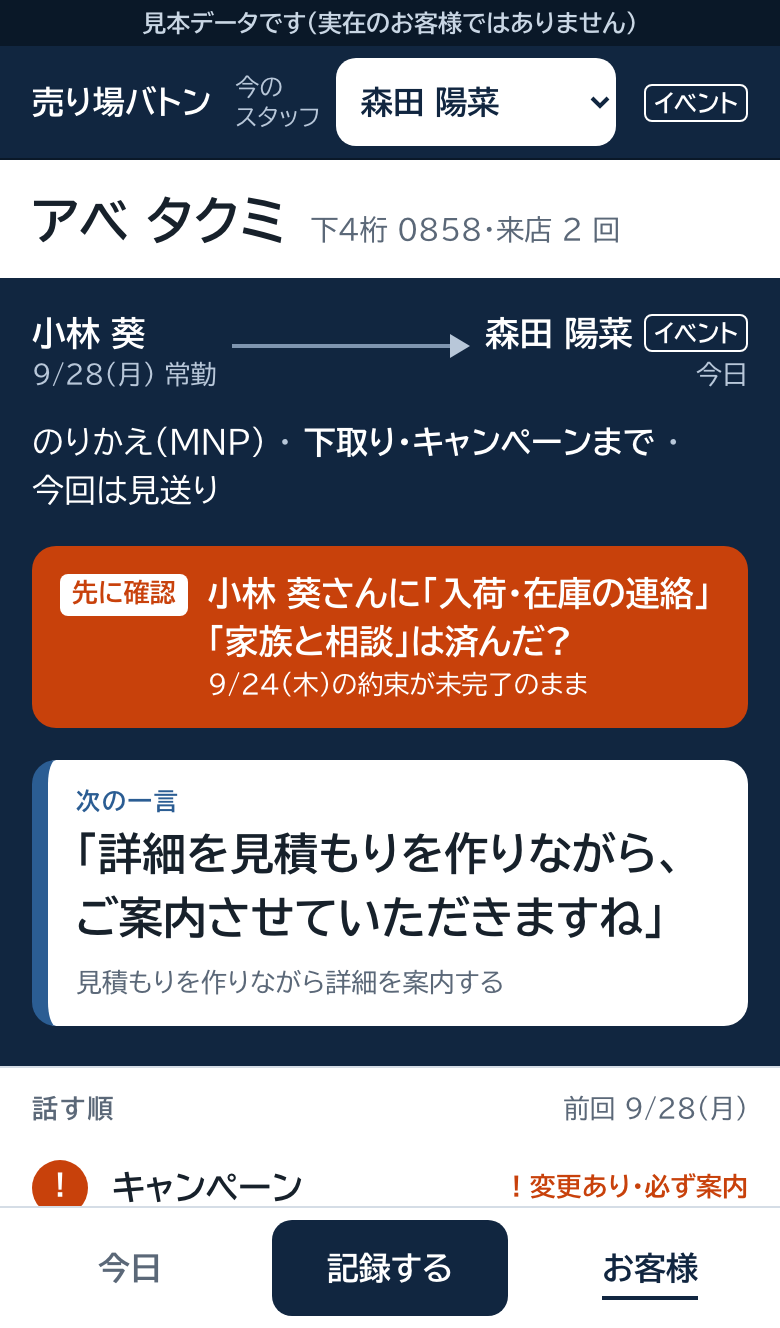
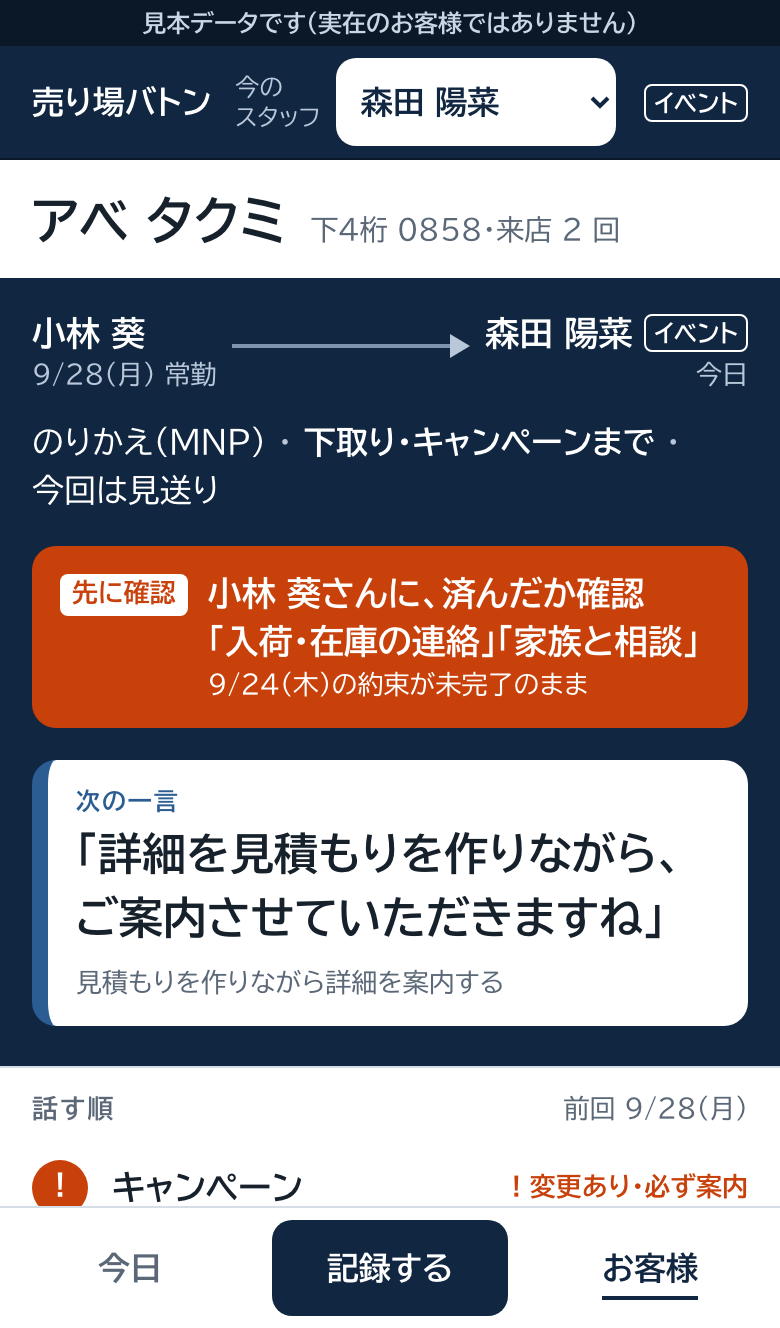
外部AI(Codex)の辛口レビューで当たっていた所を直した:先に確認は相手と約束を分けて折らない、済みボタンを「済みにする」に、選んだ説明済みに✓、残りの段を開くボタン、今日の一覧に先に確認の件数。色覚・白黒の確認画像を追加

Changed region(s): [[0.2769, 0.4322, 0.9231, 0.494]]

diff --git a/src/app/record/RecordForm.tsx b/src/app/record/RecordForm.tsx
@@ -268,11 +268,15 @@ export function RecordForm({
     goNext(1, { 1: true });
   }
 
+  /** 足りない段のうち最初のものを開く */
+  function openMissing() {
+    openStep(!hasCustomer ? 1 : topicIds.length === 0 ? 2 : 4);
+  }
+
   function submit() {
     // 足りない段があれば、保存せずにその段を開く(保存ボタンは無効にしない)
     if (staffName !== null && !ready) {
-      const first: StepNo = !hasCustomer ? 1 : topicIds.length === 0 ? 2 : 4;
-      openStep(first);
+      openMissing();
       return;
     }
     const seconds = secondsSince(startedAt.current);
@@ -475,7 +479,7 @@ export function RecordForm({
                                   : "border-baton-line-strong bg-baton-men text-baton-moji"
                               }`}
                             >
-                              説明済み
+                              {explained ? "✓ " : ""}説明済み
                             </button>
                             <button
                               type="button"
@@ -685,10 +689,18 @@ export function RecordForm({
       <div className="fixed inset-x-0 bottom-0 z-20 border-t border-baton-line bg-baton-men px-4 pt-2 pb-[calc(env(safe-area-inset-bottom)+0.75rem)]">
         <div className="mx-auto max-w-md">
           {!ready ? (
-            <p className="mb-1.5 text-center text-[13px] text-baton-sub">
-              あと:{missing.join("・")}
-              {staffName !== null ? "(押すと開きます)" : ""}
-            </p>
+            staffName !== null ? (
+              // 残りの段を開くボタン(保存ボタンと同じ所にまとめて、まだ終わっていないことを見せる)
+              <button
+                type="button"
+                onClick={openMissing}
+                className="mb-1 flex min-h-11 w-full items-center justify-center text-[15px] font-bold text-baton-ai underline underline-offset-4"
+              >
+                あと:{missing.join("・")} を開く
+              </button>
+            ) : (
+              <p className="mb-1.5 text-center text-[13px] text-baton-sub">あと:{missing.join("・")}</p>
+            )
           ) : null}
           {/* 足りなくても押せる(足りない段を開く)。担当者が未選択のときだけは、開く段が無いので押せない */}
           <button

diff --git a/src/app/customers/[id]/page.tsx b/src/app/customers/[id]/page.tsx
@@ -133,15 +133,25 @@ export default async function CustomerCardPage({ params, searchParams }: Props) 
           <div aria-label="先に確認" role="group" className="mt-4 rounded-xl bg-baton-shu px-3.5 py-3 text-baton-on-shu">
             <ul className="space-y-2.5">
               {view.confirm.map((c) => (
-                <li key={`${c.date}${c.staffName}`} className="flex items-start gap-2.5">
+                <li key={`${c.date}${c.staffName}`} className="flex items-start gap-2.5 max-[359px]:flex-col max-[359px]:gap-1">
                   <span className="mt-0.5 shrink-0 rounded bg-baton-men px-1.5 py-0.5 text-[13px] font-bold leading-tight text-baton-shu">
                     先に確認
                   </span>
+                  {/* 確認する相手と、確認する約束を分けて出す(約束の名前は途中で折らない) */}
                   <div className="min-w-0">
                     <p className="text-[17px] font-bold leading-snug">
-                      {c.staffName}さんに{c.labels.map((l) => `「${l}」`).join("")}は済んだ?
+                      {c.staffName}さんに、<span className="whitespace-nowrap">済んだか確認</span>
                     </p>
-                    <p className="mt-0.5 text-[13px] leading-snug tabular-nums">{c.date}の約束が<span className="whitespace-nowrap">未完了のまま</span></p>
+                    <p className="text-[17px] font-bold leading-snug">
+                      {c.labels.map((l) => (
+                        <span key={l} className="inline-block">
+                          「{l}」
+                        </span>
+                      ))}
+                    </p>
+                    <p className="mt-0.5 text-[13px] leading-snug tabular-nums">
+                      {c.date}の約束が<span className="whitespace-nowrap">未完了のまま</span>
+                    </p>
                   </div>
                 </li>
               ))}

diff --git a/src/lib/card-view.ts b/src/lib/card-view.ts
@@ -82,7 +82,7 @@ export type CardView = {
   /** 説明済み(畳んで出す) */
   explained: ItemStatus[];
   /** 今日の一覧用の数 */
-  counts: { required: number; changed: number; unclear: number; notYet: number };
+  counts: { required: number; confirm: number; changed: number; unclear: number; notYet: number };
   /** 読み上げ用の要約(画面には出さない) */
   summaryText: string;
 };
@@ -125,6 +125,8 @@ export function buildCardView(visits: HandoffVisit[], catalog: ChecklistCatalog)
     explained: items.filter((i) => i.state === "EXPLAINED"),
     counts: {
       required: hints.required.length,
+      // 必ず=先に確認(前々回以前の未完了の約束)+変更あり
+      confirm: summary.staleActions.length,
       changed: count("CHANGED"),
       unclear: count("UNCLEAR"),
       notYet: count("NOT_YET"),

diff --git a/src/app/page.tsx b/src/app/page.tsx
@@ -56,6 +56,7 @@ function ActionList({ actions, canComplete }: { actions: OpenAction[]; canComple
 /** 3行目:状態を言葉で(0の状態は書かない)。色丸と数字だけの並びはやめた(07 §2-3) */
 function StateWords({ counts }: { counts: CardView["counts"] }) {
   const parts = [
+    counts.confirm > 0 ? { text: `先に確認${counts.confirm}`, shu: true } : null,
     counts.changed > 0 ? { text: `変更あり${counts.changed}`, shu: true } : null,
     counts.unclear > 0 ? { text: `あいまい${counts.unclear}`, shu: false } : null,
     counts.notYet > 0 ? { text: `まだ${counts.notYet}`, shu: false } : null,

diff --git a/src/lib/__tests__/card-view.test.ts b/src/lib/__tests__/card-view.test.ts
@@ -107,7 +107,7 @@ describe("buildCardView", () => {
     ]);
     expect(v.explained.map((i) => i.label)).toEqual(["料金比較", "端末価格"]);
     // 必ず=先に確認2件+変更あり1件
-    expect(v.counts).toEqual({ required: 3, changed: 1, unclear: 1, notYet: 1 });
+    expect(v.counts).toEqual({ required: 3, confirm: 2, changed: 1, unclear: 1, notYet: 1 });
     expect(v.summaryText).toContain("前回 10/3(土) 小林 葵(常勤)");
   });
 });

diff --git a/src/app/_components/ActionDoneButton.tsx b/src/app/_components/ActionDoneButton.tsx
@@ -10,7 +10,7 @@ export function ActionDoneButton({ actionId, back }: { actionId: string; back?: 
         type="submit"
         className="min-h-11 min-w-14 rounded-[10px] border-2 border-baton-ai bg-baton-men px-3 text-base font-bold text-baton-ai active:bg-baton-ji"
       >
-        済み
+        済みにする
       </button>
     </form>
   );
